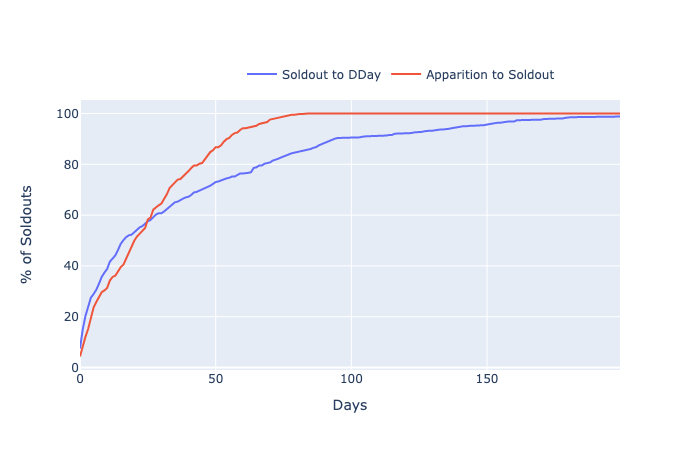
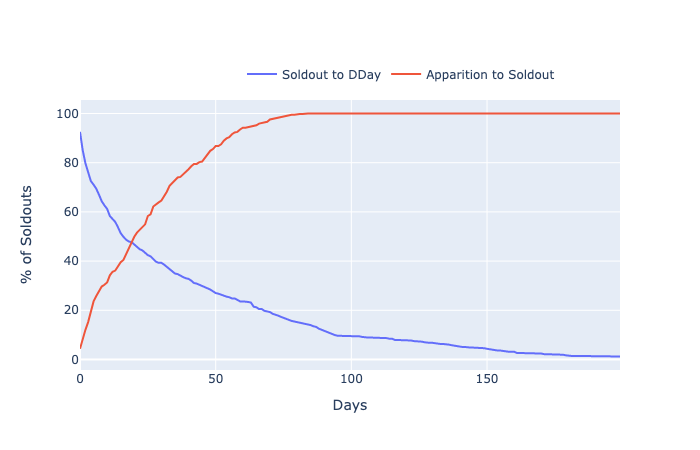
adding a graph and a table

diff --git a/README.md b/README.md
@@ -72,7 +72,7 @@ As we tried to understand what were the key drivers of concerts' popularity, we 
 
 Aside from songs' internal characteristics and popularity indicators, our variables seem to be relatively uncorrelated and we were able to weed out redundant information from the dataset.
 
-![Correlation Matrix](assets/img/correlation_matrix.jpg =100x)
+![Correlation Matrix](assets/img/correlation_matrix.jpg)
 
 Since pairwise-correlation is insufficient to visualize multicollinearity, we also used VIF analysis to better understand redundancies. 
 
@@ -85,13 +85,21 @@ Interestingly, regardless of the urban areas, **~6%** of concerts eventually sel
 While we may have expected that concerts sell-out primarily around the weekend, our analysis also indicates that sell-out rates are relatively uniform through the week days.
 
 <center>
-![Proportion of sold out concerts per day of the week](assets/img/week_day.jpg =100x)
+
+![Proportion of sold out concerts per day of the week](assets/img/week_day.jpg)
+
 </center>
 
-Initially, we thought that most of the concerts that sold out did so right after sales were released. However, as the graph below highlights it, the rate of sell-out seems to follow an exponential distribution.
+The graphs below highlight the probability distribution of a concert selling out depending on:
+1. The time since the concert was announced (**<span style="color:red">red</span>**)
+2. The time remaining before the event (**<span style="color:blue">blue</span>**)
+   
+Initially, we thought that most of the concerts that sold out did so right after sales were released. However, as it can be seen below, the rate of sell-out seems to follow an exponential distribution.
 
 <center>
-![Time for a Concert to sell out](assets/img/soldout_distrib.png =100x)
+
+![Time for a Concert to sell out](assets/img/soldout_distrib.png)
+
 </center>
 
 Interestingly, as highlighted by the graph above, ~50% of concerts sell out within 20 days of being announced and around 16 days before the concert happens.
@@ -114,8 +122,11 @@ To assess a model performance, we measure and bootstrap its precision for variou
 
 We started by using a simple model: Logistic Regression and found the following results:
 <center>
-![Logistic Regression Results](assets/img/logregres.png =100x)
+
+![Logistic Regression Results](assets/img/logregres.png)
+
 </center>
+
 We highlighted the 95% confidence interval (found using Bootstrap) of the various metrics with colored shadows around the lines. The results were insufficient. The range of probability returned by the logistic regression was not wide enough (the model was never sure of a concert's ability to soldout), leading our model to predict only "not soldout concert" above a threshold of 0.5. Even applying over/undersampling techniques such as SMOTE did not help the results meaningfully. 
 
 To improve our results, we used a Random Forest:
@@ -143,6 +154,15 @@ Leveraging the [Hyperopt Python Library](https://github.com/hyperopt/hyperopt) a
 With our tuned LightGBM, we were able to get the following results on *February 2nd, 2020*: 
 
 **Insert Graph**
+
+Below, we highlight a potential confusion matrix that maximizes precision  according to illustrate our results:
+<center>
+
+|  | Predicted Not Sold-Out | Predicted Sold Out |
+|--------------|:----------------------:|-------------------:|
+| Not Sold-Out | 1725 | 3 |
+| Sold-Out | 173 | 18 |
+</center>
 
 *Note: As we are constantly getting new data on a daily basis, our model is still improving!*
 
